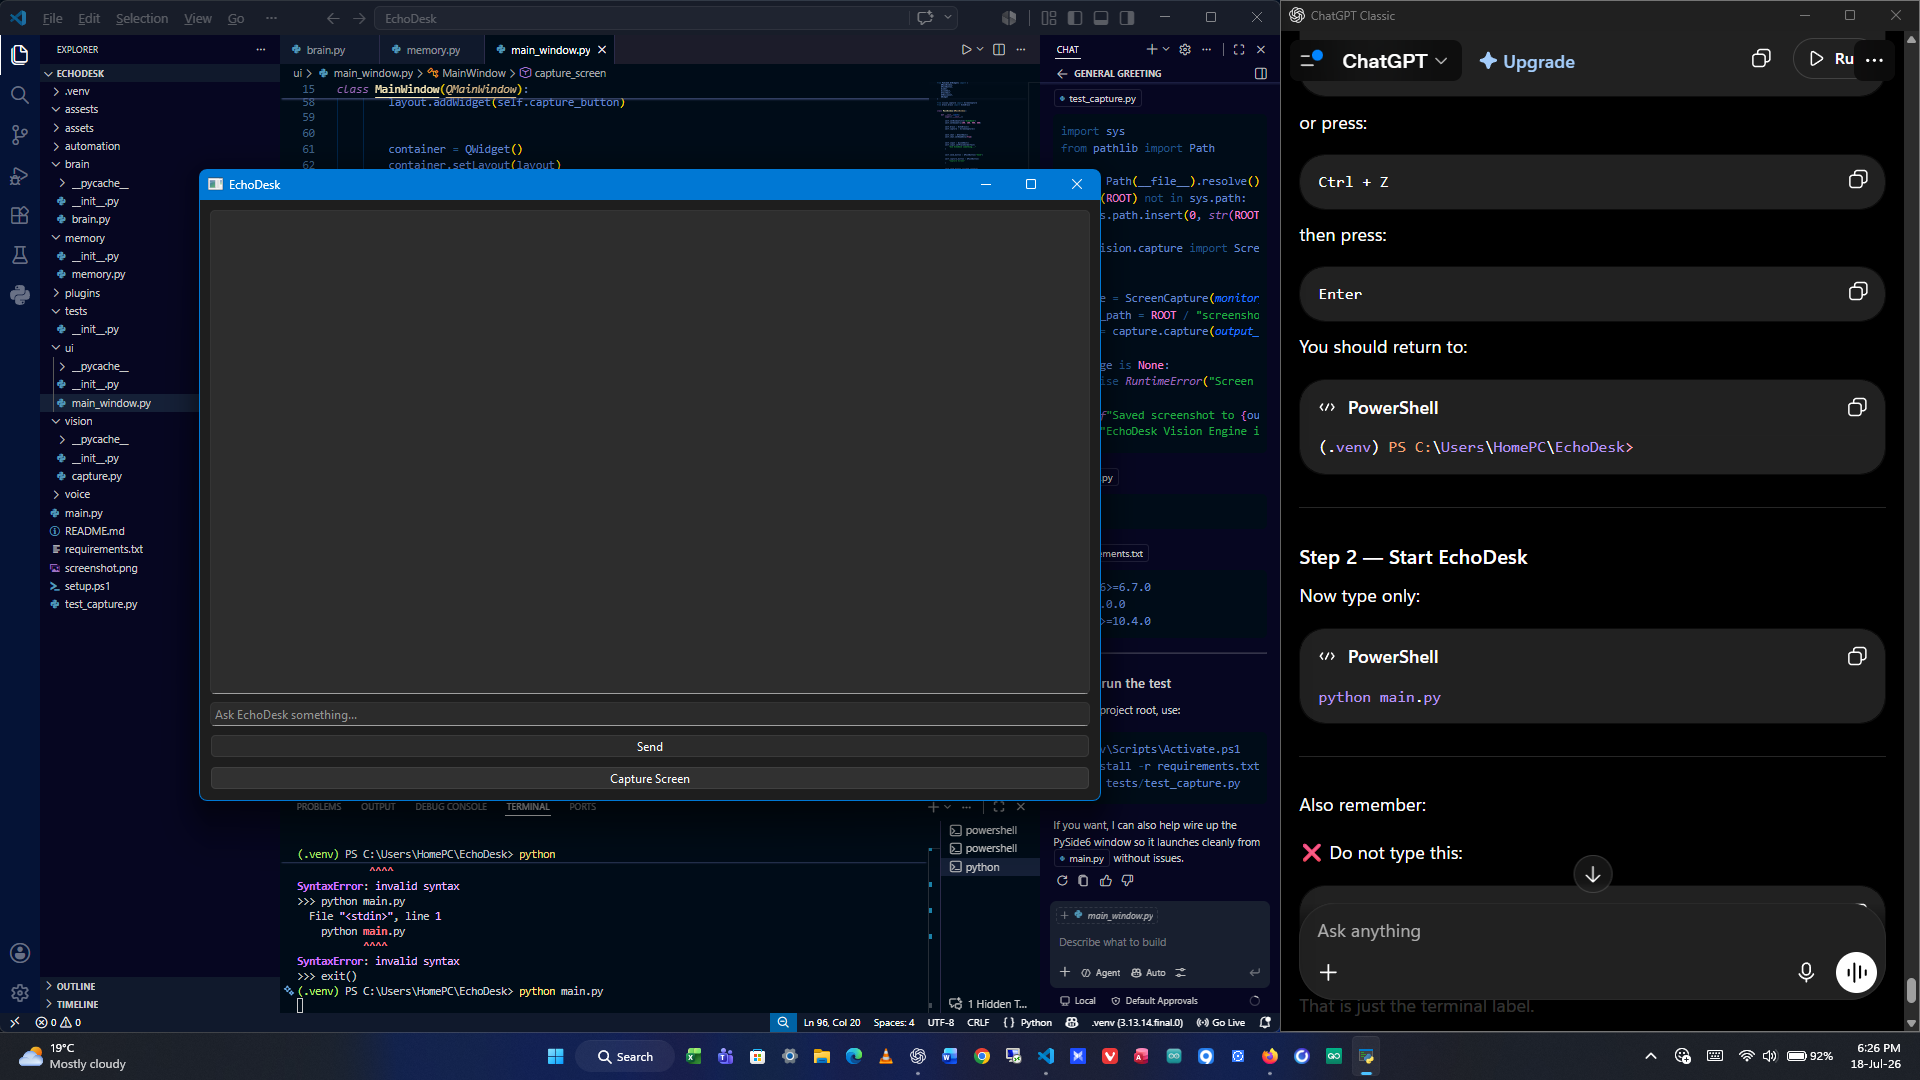
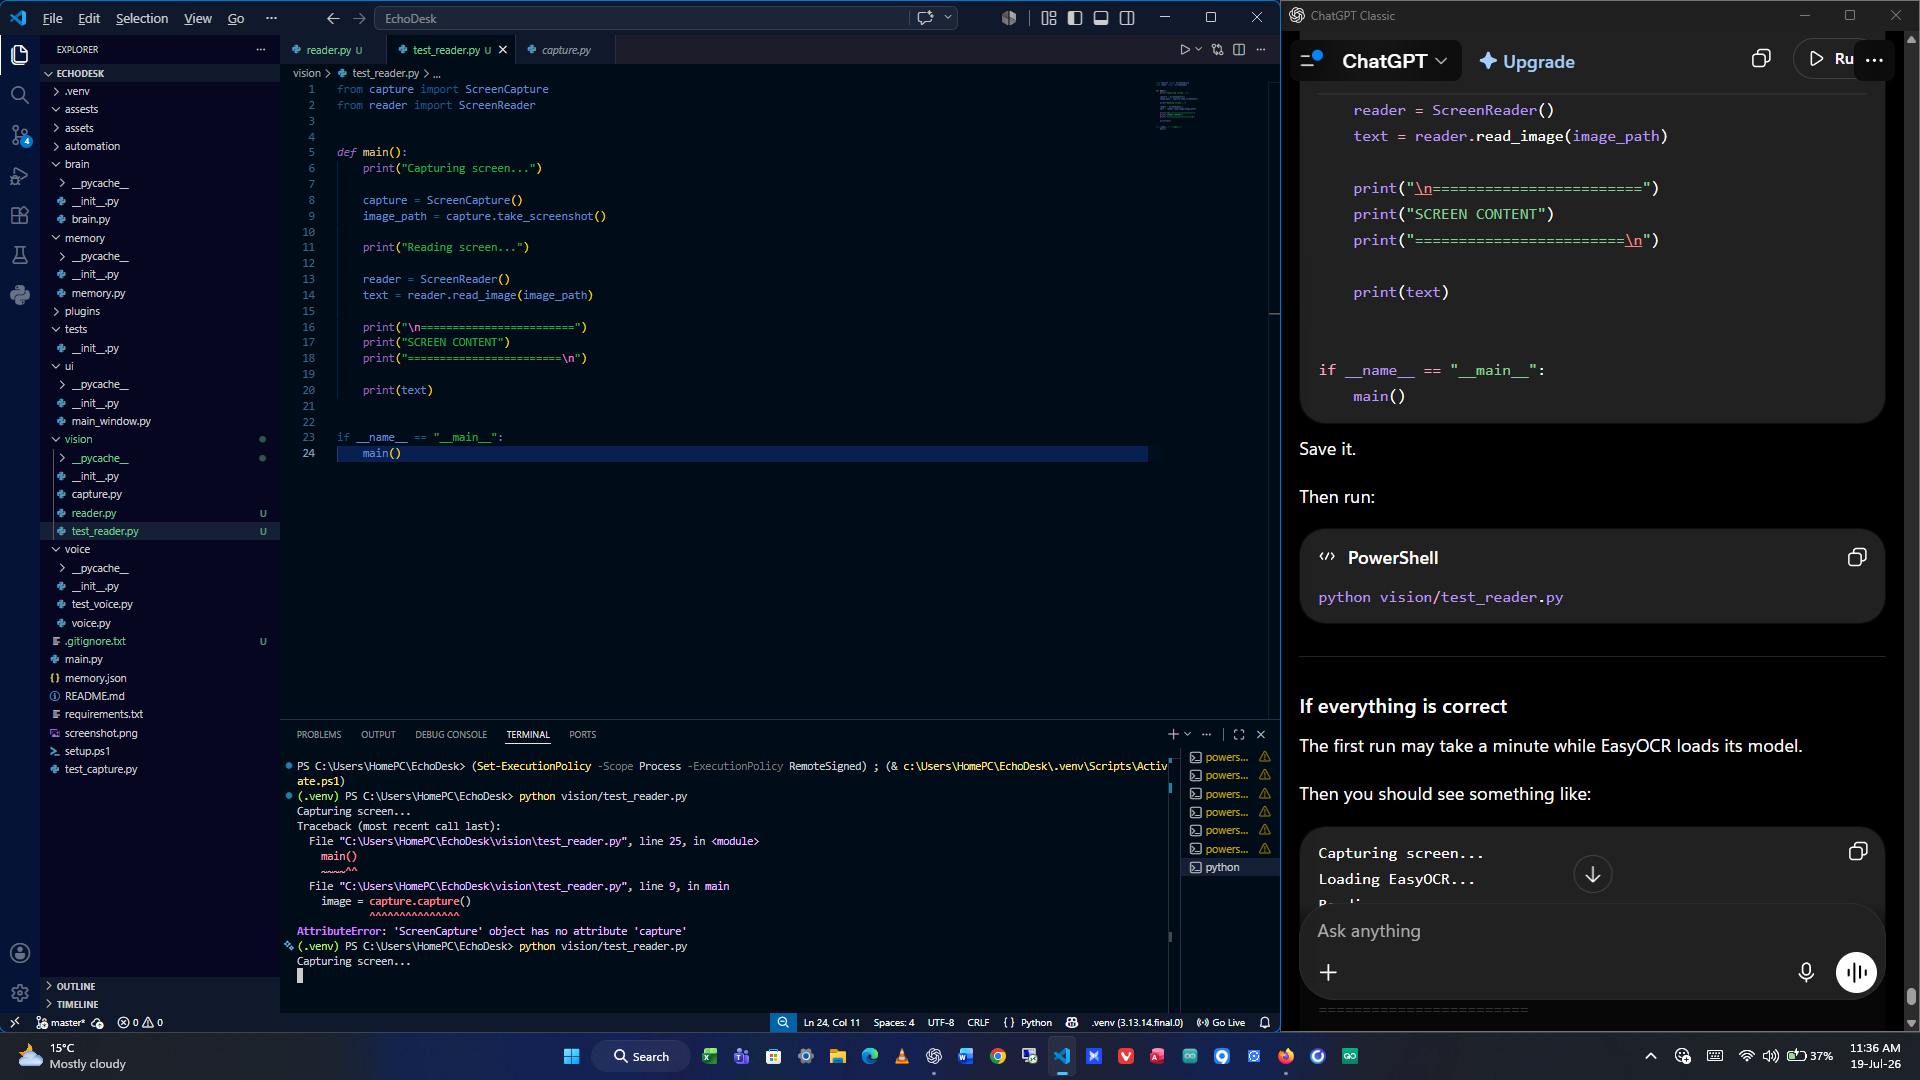
Vision OCR working

diff --git a/vision/reader.py b/vision/reader.py
@@ -1,0 +1,29 @@
+import easyocr
+import os
+
+
+class ScreenReader:
+    def __init__(self):
+        print("Loading EasyOCR... (first launch may take a minute)")
+        self.reader = easyocr.Reader(['en'], gpu=False)
+
+    def read_image(self, image_path):
+        """
+        Reads all text from an image and returns it as a single string.
+        """
+
+        if not os.path.exists(image_path):
+            return "Image not found."
+
+        results = self.reader.readtext(image_path)
+
+        if not results:
+            return "No text detected."
+
+        lines = []
+
+        for result in results:
+            text = result[1]
+            lines.append(text)
+
+        return "\n".join(lines)

diff --git a/vision/test_reader.py b/vision/test_reader.py
@@ -1,0 +1,24 @@
+from capture import ScreenCapture
+from reader import ScreenReader
+
+
+def main():
+    print("Capturing screen...")
+
+    capture = ScreenCapture()
+    image_path = capture.take_screenshot()
+
+    print("Reading screen...")
+
+    reader = ScreenReader()
+    text = reader.read_image(image_path)
+
+    print("\n========================")
+    print("SCREEN CONTENT")
+    print("========================\n")
+
+    print(text)
+
+
+if __name__ == "__main__":
+    main()